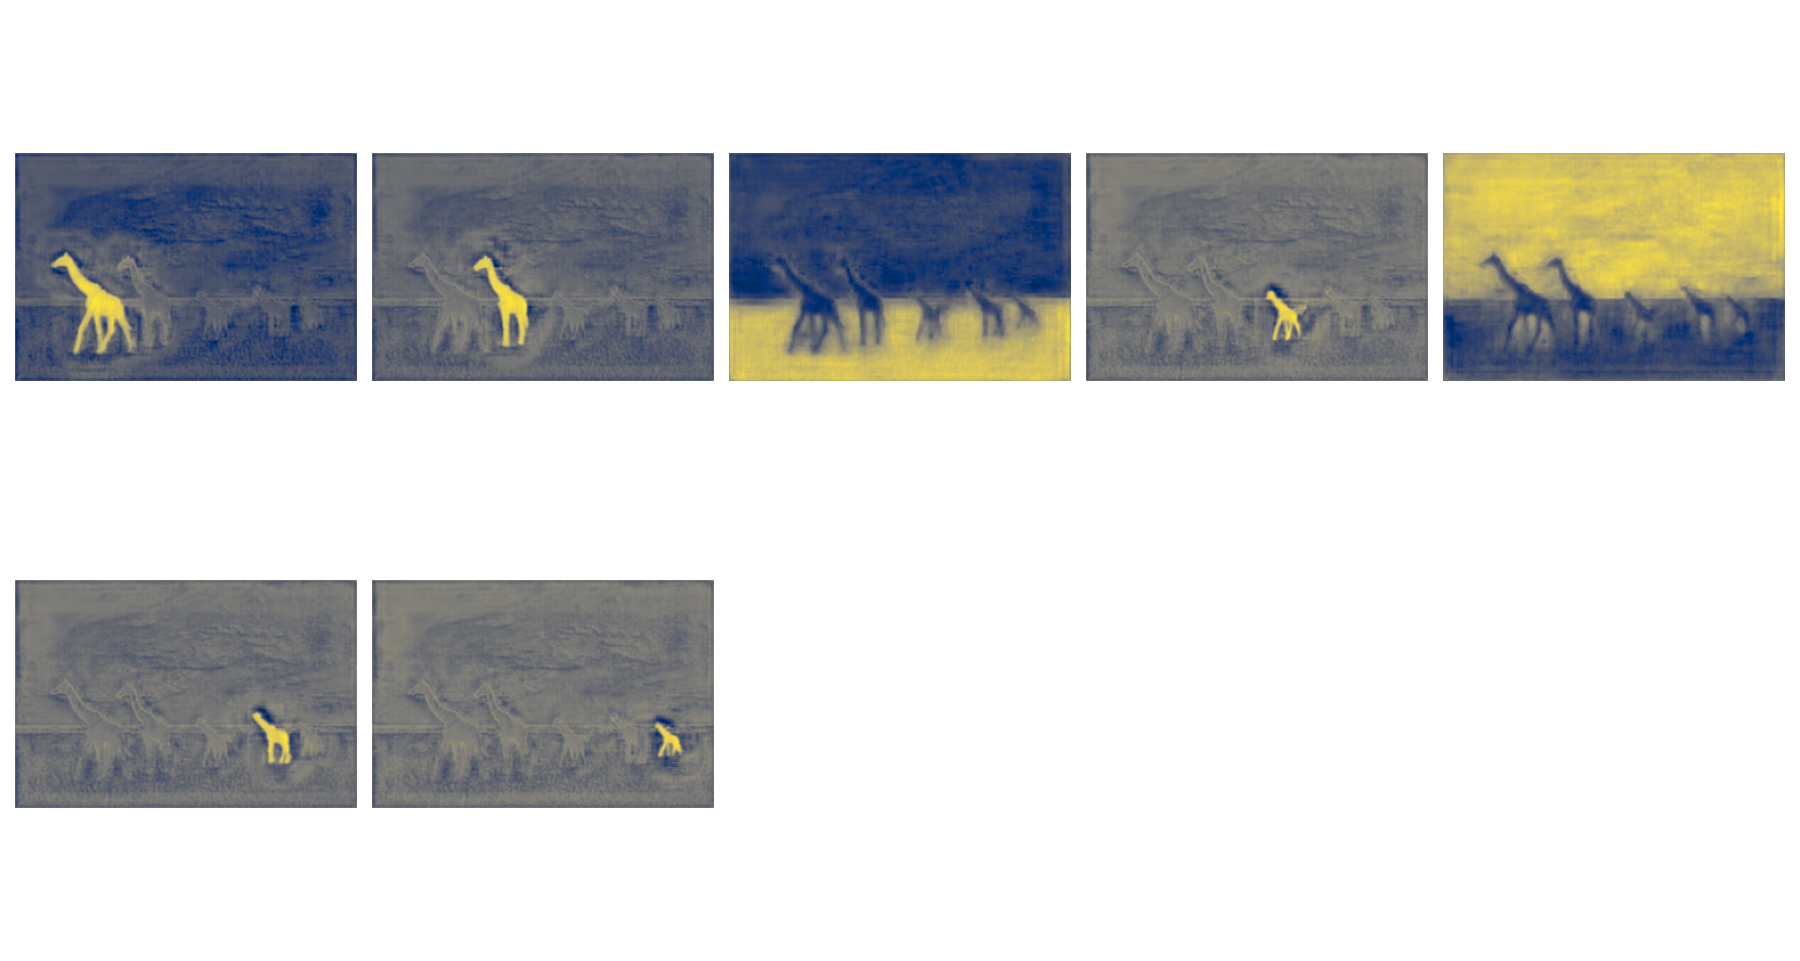
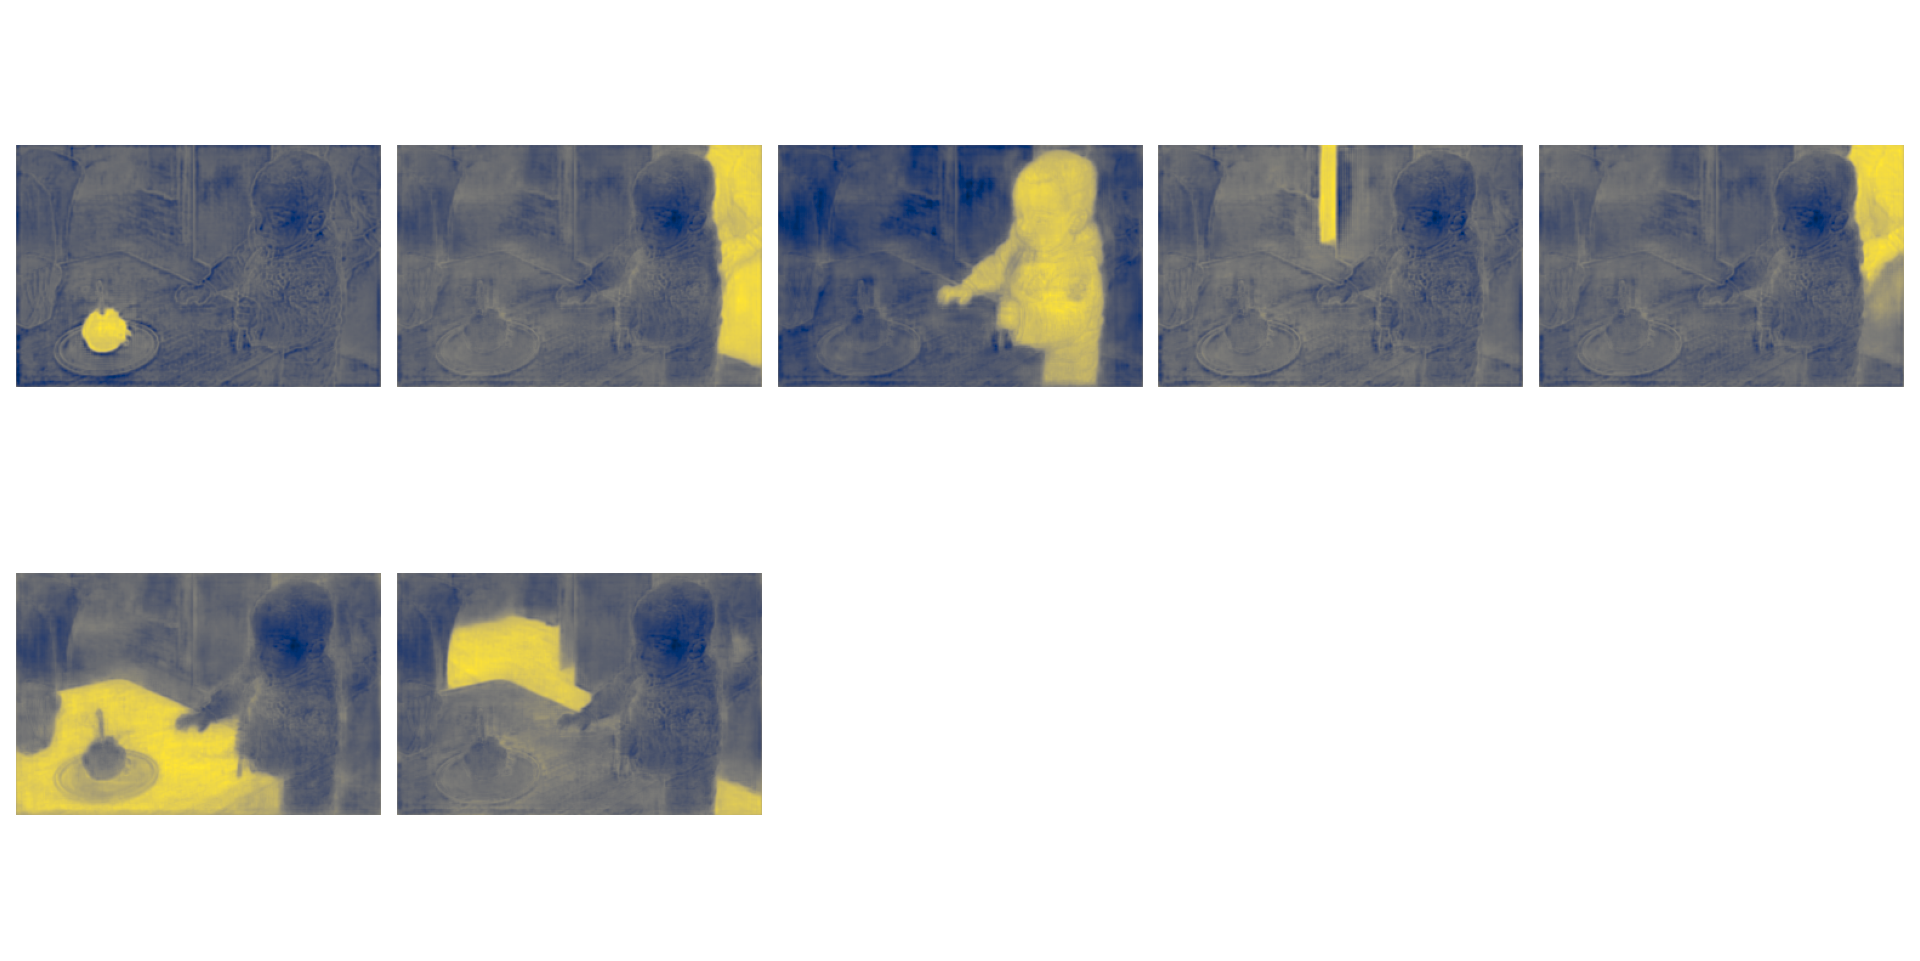
revised visualization of superimposed attention weights. improved example plots and some qol stuff.

Changed region(s): [[0.0, 0.1249, 0.9956, 0.4058], [0.0, 0.5931, 0.4044, 0.8741]]

diff --git a/util/visualization.py b/util/visualization.py
@@ -1,17 +1,19 @@
-import matplotlib.pyplot as plt
-import seaborn as sns
 import argparse
-import numpy
-import math
-import random
 import io
 import itertools
-import cv2
-import scipy
+import math
+import random
 
-from blend_modes import *
 from PIL import Image
+from blend_modes import *
 from blend_modes.blending_functions import overlay
+import cv2
+import numpy
+import scipy
+from torch.nn import functional as F
+
+import matplotlib.pyplot as plt
+import seaborn as sns
 
 
 # colors for visualization
@@ -19,7 +21,7 @@ COLORS = [[0.000, 0.447, 0.741], [0.850, 0.325, 0.098], [0.929, 0.694, 0.125],
         [0.494, 0.184, 0.556], [0.466, 0.674, 0.188], [0.301, 0.745, 0.933]]
 
 
-def new_plot_dec_attn_weights(dec_attn_weights, h, w, im, bboxes_scaled, keep, probas, CLASSES):
+def plot_dec_attn_weights_overlay(dec_attn_weights, h, w, im, bboxes_scaled, keep, probas, CLASSES):
 
     wtitle = "visualize decoder attention weights"
     fig, ax = plt.subplots(num=wtitle, figsize=(22, 7))
@@ -58,19 +60,17 @@ def new_plot_dec_attn_weights(dec_attn_weights, h, w, im, bboxes_scaled, keep, p
 
 def blend_img_and_weights(attn_weights_hw, im, color=[255, 0, 0, 255]):
 
-    im_rgb = im.convert("RGB")
+    DEBUG = False
 
-    # numpy arrays
-    attn_weights_np = attn_weights_hw.cpu().detach().numpy()
-    im_np = numpy.asarray(im_rgb)
+    im_np = numpy.asarray(im.convert("RGB"))
 
     # resize attention weights to image size and normalize to [0, 255] values
-    attn_weights_np = cv2.resize(attn_weights_np, dsize=(im_np.shape[1], im_np.shape[0]), interpolation=cv2.INTER_CUBIC)
+    attn_weights_np = F.interpolate(attn_weights_hw.unsqueeze(0).unsqueeze(0), size=im_np.shape[:2], mode='bilinear', align_corners=False).squeeze().cpu().detach().numpy()
     attn_weights_np = numpy.uint8(numpy.interp(attn_weights_np, (attn_weights_np.min(), attn_weights_np.max()), (0, 255)))
 
     # cv2 images
     weights = cv2.cvtColor(attn_weights_np, cv2.COLOR_RGB2BGRA)
-    input_image = cv2.cvtColor(numpy.array(im_rgb), cv2.COLOR_RGB2BGRA)
+    input_image = cv2.cvtColor(im_np, cv2.COLOR_RGB2BGRA)
 
     # using CV2 and blend_modes package
     input_float = input_image.astype(float)
@@ -81,10 +81,7 @@ def blend_img_and_weights(attn_weights_hw, im, color=[255, 0, 0, 255]):
     color[0], color[2] = color[2], color[0] # rgba to bgra
     color_image[:,:] = color # bgra
     color_image_float = color_image.astype(float)
-    weights_colored_float = multiply(weights_float, color_image_float, opacity=1)
-
-    # strenghten visualization of weights
-    weights_colored_float = overlay(weights_colored_float, weights_colored_float, opacity=1)
+    weights_colored_float = overlay(weights_float, color_image_float, opacity=1)
 
     # blend colored weights onto input image
     blended_img_float = addition(input_float, weights_colored_float, opacity=1)
@@ -94,23 +91,13 @@ def blend_img_and_weights(attn_weights_hw, im, color=[255, 0, 0, 255]):
     input_image = input_float.astype(numpy.uint8)
     weights_colored = weights_colored_float.astype(numpy.uint8)
 
-    # Display images for debugging only!
-    #mask_vis = numpy.zeros([weights.shape[0], weights.shape[1]], dtype=numpy.uint8)
-    #mask_vis[mask] = 255
-
-    """
-    cv2.imshow("input image", input_image)
-    cv2.imshow("attention weights upscale", attn_weights_np)
-    #cv2.imshow("color", color_image)
-    #cv2.imshow("attention weights greyscale", weights_grey)
-    cv2.imshow("colored weights", weights_colored)
-    #cv2.imshow("mask", mask_vis)
-    #cv2.imshow("alpha", alpha)
-    #cv2.imshow("maximum weights", weights_maxima)
-    cv2.imshow('weights on input', blended_img)
-    cv2.waitKey()  # Press a key to close window with the image.
-    cv2.destroyAllWindows()
-    """
+    if DEBUG:
+        cv2.imshow("input image", input_image)
+        cv2.imshow("attention weights upscale", attn_weights_np)
+        cv2.imshow("colored weights", weights_colored)
+        cv2.imshow('weights on input', blended_img)
+        cv2.waitKey()  # Press a key to close window with the image.
+        cv2.destroyAllWindows()
 
     return cv2.cvtColor(blended_img, cv2.COLOR_BGR2RGB)
 

diff --git a/main.py b/main.py
@@ -168,7 +168,7 @@ def main():
         print("Reshaped self-attention:", sattn.shape)
 
     plot_results(im, probas[keep], bboxes_scaled, IM_NAME, args, CLASSES)
-    new_plot_dec_attn_weights(dec_attn_weights, h, w, im, bboxes_scaled, keep, probas, CLASSES)
+    plot_dec_attn_weights_overlay(dec_attn_weights, h, w, im, bboxes_scaled, keep, probas, CLASSES)
     plot_dec_attn_weights(bboxes_scaled, keep, dec_attn_weights, h, w, im, probas, IM_NAME, args, CLASSES)
     plot_enc_attn_weights(sattn, im, img, IM_NAME, args)
 

diff --git a/README.md b/README.md
@@ -6,21 +6,21 @@ The paths for the trained weights and datasets are hard-coded into main.py and s
 
 ## Example
 ```
-python main.py --dataset bsds --img 253055.jpg --refpoints 540 320 510 270 200 250 530 500
+python main.py --img 000000117425.jpg --refpoints 625 265 300 900 200 650 447 209
 ```
 ### Input Image
 ![input](example/input.jpg)
 
-### Processed Outputs: Detections & Strongest Attention Weights
+### Detections & Attention Weights
 ![output](example/output.png)
 
-### Decoder Attention Weights
+### Decoder Attention Weights for Detected Objects
 ![decoder-attention-raw](example/decoder-attention-raw.png)
 
 ### Encoder Attention Weights for Interesting Reference Points
 ![encoder-attention-refpoints](example/encoder-attention-refpoints.png)
 
-### Object Masks Generated by Attention Maps
+### Object Masks
 ![bbox-attention-maps-for-object-masks](example/bbox-attention-maps-for-object-masks.png)
 
 ### Panoptic Segmentation
